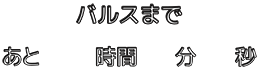
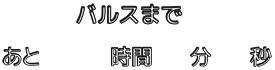
2015年の放送予想で暫定版を作成

diff --git a/src/bals.htm b/src/bals.htm
@@ -4,7 +4,7 @@
 <meta http-equiv="content-type" content="text/html; charset=UTF-8">
 <link rel="shortcut icon" href="./img/favicon.png"/>
 <link rel="stylesheet" href="./style.css" type="text/css">
-<title>バルス時計 2013</title>
+<title>バルス時計 2015</title>
 </head>
 <body>
 <div class="bg">
@@ -41,6 +41,7 @@
 	<div id="wall">
 		<div id="text">
 			<span id="hh">
+				<img id="h3" src="./img/num0.png">
 				<img id="h2" src="./img/num0.png">
 				<img id="h1" src="./img/num0.png">
 				<img id="h0" src="./img/num0.png">
@@ -63,11 +64,11 @@
 
 	<div id="footer">
 		<p class="left">
-			2009年と2011年の放送時刻(23:21:13と23:22:34)を目安にしています。<br>
+			2009年以後の放送日時を目安にしています。<br>
 			※このページはスタジオジブリおよび日本テレビとは一切関係ありません。
 		</p>
 		<p class="right">
-			描いた人: <a href="http://2st.jp/hirune/">shati</a><br>
+			描いた人: <a href="http://utata-ne.net/">shati</a><br>
 			作った人: <a href="https://twitter.com/mstssk">@mstssk</a>
 		</p>
 	</div>

diff --git a/src/script.js b/src/script.js
@@ -20,6 +20,7 @@ var num = 	["./img/num0.png"
 			,"./img/num7.png"
 			,"./img/num8.png"
 			,"./img/num9.png"];
+var h3 = getElemById("h3");
 var h2 = getElemById("h2");
 var h1 = getElemById("h1");
 var h0 = getElemById("h0");
@@ -27,7 +28,7 @@ var m1 = getElemById("m1");
 var m0 = getElemById("m0");
 var s1 = getElemById("s1");
 var s0 = getElemById("s0");
-var balstime = new Date("2013/08/02 23:21:53 +0900");
+var balstime = new Date("2015/10/17 23:21:52 +0900");
 function count(){
 	var remain = (balstime - new Date()) / 1000;
 	if(remain < 0){
@@ -44,7 +45,8 @@ function count(){
 		var tmp = remain % 3600;
 		var m = tmp / 60 | 0;
 		var s = tmp % 60 | 0;
-		h2.src = num[h / 100 % 100 | 0];
+		h3.src = num[h / 1000 % 10 | 0];
+		h2.src = num[h / 100 % 10 | 0];
 		h1.src = num[h / 10 % 10| 0];
 		h0.src = num[h % 10];
 		m1.src = num[m / 10 | 0];

diff --git a/src/style.scss b/src/style.scss
@@ -216,8 +216,8 @@ div.bg {
 #text{
 	background:url(./img/text_base.png) no-repeat;
 	height: 70px;
-	width: 260px;
-	margin: 120px 120px;
+	width: 275px;
+	margin: 120px 110px;
 	padding-top: 48px;
 }
 #text img{
@@ -227,10 +227,10 @@ div.bg {
 	margin-left: 40px;
 }
 #mm{
-	margin-left: 47px;
+	margin-left: 44px;
 }
 #ss{
-	margin-left: 23px;
+	margin-left: 22px;
 }
 
 #footer{

diff --git a/README.md b/README.md
@@ -1,14 +1,16 @@
-# バルス時計 2013
+# バルス時計 2015 暫定版
 バルスへのカウントダウンをします。
 
 ## 時刻
 ### これまで
 * 2009/11/20 23:21:13
 * 2011/12/09 23:22:34 (予想は 2011/12/9 23:21:13)
+* 2013/08/02 23:21:50 (予想は 2013/08/02 23:21:53)
 
-### 2013年
-* `予想` 2013/08/02 23:21:53
-* `結果` 2013/08/02 23:21:50 (-3秒)
+### 2015年
+* `予想` 2015/10/16 23:21:52
+
+    2009年以後の3回の日付と時刻それぞれの平均。日付のみ直近の金曜日にずらした。
 
 ## ビルド
 * **java**( http://java.com/ ) と **compass**( http://compass-style.org/ ) が必要
@@ -23,4 +25,4 @@
     3. 結果を *jsdo.it/replace.map* にコピペして書き込む。
         * 各行に元ファイル名と置換先URLがスペース区切りで入っている状態
 2. *jsdo.it/deploy4jsdoit.sh*を実行
-2. *deploy* ディレクトリに結果が吐き出される。
+3. *deploy* ディレクトリに結果が吐き出される。
